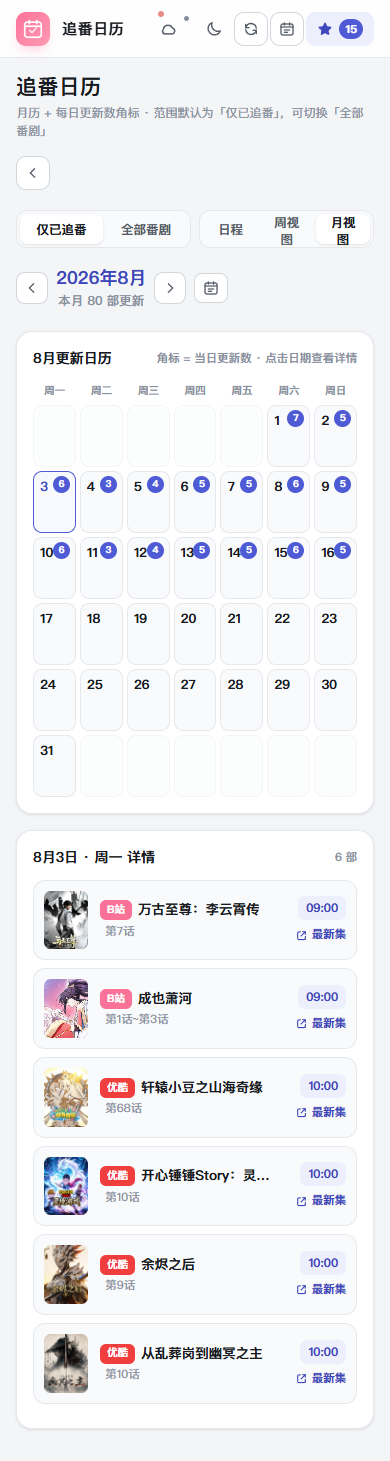
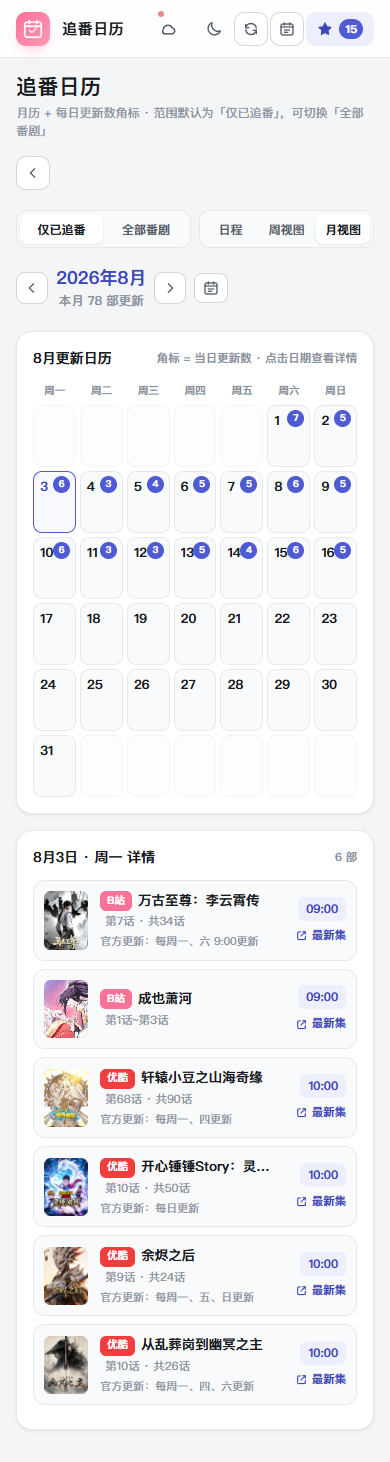
chore(verify): 数据字段防复发校验、QA截图与文档维护

diff --git a/README.md b/README.md
@@ -9,13 +9,13 @@
 - **更新看板**：左侧星期栏 + 横向卡片（今日行高亮）；四平台 Tab（含品牌 LOGO）筛选；卡片直达最新正剧集；单日超过 12 部自动折行并显示「+N 部」展开。
 - **多周浏览**：周导航支持历史 8 周（懒加载 `data/history.json` 归档）+ 本周 + 下周「预计」；历史周无数据时显示空态说明。
 - **搜索与筛选**：全站标题搜索（`/` 快捷键聚焦）+ 徽章筛选（独播/SVIP抢先/限免/超前点映/结局点映/大结局/完结）+「只看连载」，与平台 Tab、短剧过滤叠加生效。
-- **断更检测**：已追番剧按官方更新规则（rule）在规则日无更新且未完结时标记「疑似断更」，可一键忽略；展示于追番列表与日历当日。
-- **追番收藏与屏蔽**：卡片星标收藏/取消、收藏下方「屏蔽」按钮屏蔽不想看的剧（短剧过滤开启即隐藏）；同标题跨平台合并；追番列表以当前周数据富集展示（缺腾讯更新时间自动补全），卡片风格与追番日历详情一致；支持搜索（与看板同一搜索框）、平台筛选、导出/导入 JSON、逐剧「提醒」开关。
+- **断更检测**：已追番剧按更新规则（rule）在规则日无更新且未完结时标记「疑似断更」，可一键忽略；展示于追番列表与日历当日。规则来源：腾讯卡片原文 / B站官方排期文案 / 优酷与爱奇艺按星期 Tab 推导。
+- **追番收藏与屏蔽**：卡片星标收藏/取消、收藏下方「屏蔽」按钮屏蔽不想看的剧（短剧过滤开启即隐藏）；同标题跨平台合并；追番列表以当前周数据富集展示（缺腾讯更新时间自动补全），卡片风格与追番日历详情一致；封面取自收藏时持久化的海报，历史/已完结剧集由当前周数据与历史归档兜底；支持搜索（与看板同一搜索框）、平台筛选、导出/导入 JSON、逐剧「提醒」开关（标题行铃铛图标）。
 - **更新提醒**：静默浏览器通知（顶栏无铃铛）——页面打开期间自动检查，同一剧集同一天只提醒一次；通知授权后可收聚合文案。
 - **匿名云同步（可选）**：无账号体系——首次访问自动创建设备级匿名身份（Header 云图标首次出现红点提示，查看后消失），追番/屏蔽/设置自动云端同步（Supabase + RLS）；可绑定邮箱升级跨设备；不配置则纯本地运行。
 - **追番日历**：日程（当日列表 + 明日预告，详情卡含「最新集」跳转与官方更新规则）/ 周视图（本周更新 + 当日详情）/ 月视图（每行一部并带更新时间，**合并历史归档展示整月数据**）；不受短剧过滤影响（按原始数据展示）；范围默认「仅已追番」，可切换「全部番剧」；「回到今天」；下周为按本周排期推导的「预计」视图（完结剧不预测并标「完结」）。
 - **PWA/离线**：可安装（manifest + 图标）、Service Worker 预缓存，离线可打开最近一次看板数据。
-- **体验**：今日追番更新摘要（不受平台 Tab 影响）、深色模式（跟随系统/手动）、真实「刷新」（运行时拉取最新数据，失败回退构建时数据）、相对时间（N 小时前）、卡片时长显示、数据提示「知道了」持久关闭、加载骨架屏、抓取失败重试、warnings 提示、移动端响应式（<768px 降级为星期 Tab + 单日列表，操作按钮图标化，站点/星期选择栏横向滚动条提示）、SEO/分享（og/sitemap/robots/404/深链）。
+- **体验**：今日追番更新摘要（不受平台 Tab 影响）、深色模式（跟随系统/手动）、真实「刷新」（运行时拉取最新数据，失败回退构建时数据）、相对时间（N 小时前）、卡片时长显示、总集数展示（「共N集/话」）、短剧过滤统计（「已过滤 X 部」，手动屏蔽单独标注）、数据提示「知道了」持久关闭、加载骨架屏、抓取失败重试、warnings 提示、移动端响应式（<768px 降级为星期 Tab + 单日列表，操作按钮图标化，站点/星期选择栏横向滚动条提示）、SEO/分享（og/sitemap/robots/404/深链）。
 
 ## 数据来源与免责声明
 
@@ -41,12 +41,12 @@ GitHub Pages 静态前端 + GitHub Actions 定时数据管道：
 ```
 Actions（cron 0 11,23 * * * UTC + workflow_dispatch + push）
   → pnpm install --frozen-lockfile → playwright install chromium
-  → node scripts/sync.mjs（抓取四平台（爱奇艺当天 tab 不重复点击 + 遮罩清理；优酷「今」tab 锚定日期）→ 时长富集（B站季分集接口 / 腾讯 GetPageData 分集接口（每集秒级 duration，按 vid/集数精确匹配）/ 优酷 show_page+播放页，慢速+冷却重试+Playwright 浏览器兜底 / 爱奇艺 avlistinfo 分集接口）→ 短条目保留 + AI 短剧关键词/评论区启发式兜底 + 豆瓣甄别（优酷/爱奇艺缺失时长条目，限额防爬）→ SVIP 抢先去重 → 最新集解析（B站排期 ep 直达/黑名单回退最新正片、优酷直达剧集页 show_page、腾讯分集列表点击解析最新正片、爱奇艺 avlistinfo 正片直达）→ 下周预计排期（未完结条目 +7 天推导）→ 四平台「今天无条目」自检告警 → 写 data/updates.json）
+  → node scripts/sync.mjs（抓取四平台（爱奇艺当天 tab 不重复点击 + 遮罩清理；优酷「今」tab 锚定日期）→ 时长/总集数/更新规则富集（B站季分集接口 total + new_ep.desc 排期 / 腾讯 GetPageData 分集接口（每集秒级 duration，按 vid/集数精确匹配；总集数仅「全N集」文案）/ 优酷 show_page episodeTotal + 星期 Tab 排期，慢速+冷却重试+Playwright 浏览器兜底 / 爱奇艺 avlistinfo 分集接口 total + 星期 Tab 排期）→ 短条目保留 + AI 短剧关键词/评论区启发式兜底 + 豆瓣甄别（优酷/爱奇艺缺失时长条目，限额防爬）→ SVIP 抢先去重 → 最新集解析（B站排期 ep 直达/黑名单回退最新正片、优酷直达剧集页 show_page、腾讯分集列表点击解析最新正片、爱奇艺 avlistinfo 正片直达）→ 下周预计排期（未完结条目 +7 天推导）→ 四平台「今天无条目」自检告警 → 写 data/updates.json）
   → 历史归档（data/history.json，滚动保留 8 周真实条目）→ git 回写 main（[skip ci] bot 提交，供前端运行时刷新与历史导航）
   → vite build（含 PWA manifest + Service Worker）→ actions/deploy-pages 发布 dist/
 ```
 
-前端「短剧过滤」开关（默认开启、阈值默认 10 分钟、可调 1/3/5/10/15 分钟）：仅隐藏展示，数据仍保留，关闭后可见全部条目；过滤开启即隐藏用户手动屏蔽的剧集，以及优酷名称含断句标点（、，。：；）的 AI 短剧条目；追番日历（日程/周/月）不受短剧过滤影响，按原始数据展示。
+前端「短剧过滤」开关（默认开启、阈值默认 10 分钟、可调 1/3/5/10/15 分钟）：仅隐藏展示，数据仍保留，关闭后可见全部条目；过滤开启即隐藏用户手动屏蔽的剧集，以及优酷名称含断句标点（、，。：；）的 AI 短剧条目；控件显示「已过滤 X 部」（当前周真实条目中实际被隐藏的去重剧部数，手动屏蔽单独标注）；追番日历（日程/周/月）不受短剧过滤影响，按原始数据展示。
 
 前端构建时读取 `data/updates.json`（结构与 `AnimeItem` 契约一致）；「刷新」按钮运行时拉取 raw.githubusercontent 最新数据（jsDelivr 兜底），对比 `generatedAt` 后更新页面。单平台抓取失败时输出 `error` 字段并沿用上次成功数据，只有完全无法产出数据时同步才退出非零。
 
@@ -95,4 +95,4 @@ MIT。数据版权归各平台，仅供个人追番参考，请勿商用。
 - M3 高保真 QA 已通过：逐屏对照台账见 `outputs/design/qa/保真度台账-M3.md`，应用截图见 `outputs/design/qa/`（与 `outputs/design/` 原型图同屏状态可逐张比对）。
 - 自动化覆盖：桌面/移动断点矩阵（375/390/360/768）、状态栅（骨架/失败/空态/深色）、追番增删与导出导入、日历三视图与范围切换、移动滑动、键盘、触控命中区、卡片最新集跳转、真实海报加载、无控制台错误。
 - M5 迭代（迭代计划书 v1，见 `outputs/迭代计划书-v1.md`）：新增 Vitest 单测（`pnpm test`）+ 浏览器验证脚本（`work/verify-m5.mjs`：PWA/SW、搜索筛选、周导航、断更、同步状态、断点矩阵、零控制台错误）。
-- 已知取舍：平台抓取依赖对方页面结构，改版时按「失败即保留上次数据」降级并在 Actions 日志告警，且 `sync.mjs` 内置四平台「今天无条目」自检（CI 输出 warning），发布前运行 `scripts/verify/` 回归脚本（详见 `scripts/verify/README.md`，历史教训：爱奇艺「今天」/优酷「今」tab 多次回归）；「下周预计排期」为按本周排期推导的启发式预测（`predicted` 标记），以平台实际更新为准；历史归档自 M5 起逐步累积，缺失周显示空态；浏览器通知仅在网站打开时有效（无后台推送服务）。
+- 已知取舍：平台抓取依赖对方页面结构，改版时按「失败即保留上次数据」降级并在 Actions 日志告警，且 `sync.mjs` 内置四平台「今天无条目」自检（CI 输出 warning），发布前运行 `scripts/verify/` 回归脚本（详见 `scripts/verify/README.md`，历史教训：爱奇艺「今天」/优酷「今」tab 多次回归）；「下周预计排期」为按本周排期推导的启发式预测（`predicted` 标记），以平台实际更新为准；历史归档自 M5 起逐步累积，缺失周显示空态；浏览器通知仅在网站打开时有效（无后台推送服务）；总集数：B站/优酷/爱奇艺可取平台计划总集数，腾讯仅已完结剧（「全N集」文案）展示，连载中剧集平台未公开计划总集数；优酷/爱奇艺更新规则为星期排期推导（无具体时间），腾讯/B站为平台原文。

diff --git a/AGENTS.md b/AGENTS.md
@@ -11,14 +11,16 @@
 - `CONTENT_BLOCKLIST`（小课堂/发布会/预告/片花/花絮/幕后/访谈/见面会/先导/抢先看）**只影响最新集解析**，不参与周表过滤；周表按平台原始更新数据展示。
 - 追番日历与「今日追番更新」默认**仅已追番**，可切换全部番剧。
 - 下周排期预测：同步在清洗/豆瓣过滤后，对本周**未完结**条目按同星期同时段 +7 天生成「预计」排期（`predicted: true`，前端标「预计」）；已完结（大结局/结局点映/全X集/X集全）条目标记 `finished: true` 且不预测；预测条目不参与时长/豆瓣过滤，看板计数仅统计本周真实数据。
-- 短剧过滤（前端开关）：同步**保留**全部已知时长条目（含 <300s 短条目）；前端「短剧过滤」默认开启、阈值默认 600s（10 分钟）可调（1/3/5/10/15 分钟，localStorage 键 `anime-calendar.shortfilter.v1`），关闭时展示全部；**过滤开关开启即隐藏**用户手动屏蔽的剧集（localStorage 键 `anime-calendar.blocked.v1`，卡片收藏按钮下方「屏蔽」按钮维护）与优酷名称含断句标点（、，。：；，不匹配 ？！以免误伤「是王者啊？第六季」等正剧）的条目；**追番日历（日程/周/月）不受短剧过滤影响**，按原始数据展示。
+- 短剧过滤（前端开关）：同步**保留**全部已知时长条目（含 <300s 短条目）；前端「短剧过滤」默认开启、阈值默认 600s（10 分钟）可调（1/3/5/10/15 分钟，localStorage 键 `anime-calendar.shortfilter.v1`），关闭时展示全部；**过滤开关开启即隐藏**用户手动屏蔽的剧集（localStorage 键 `anime-calendar.blocked.v1`，卡片收藏按钮下方「屏蔽」按钮维护）与优酷名称含断句标点（、，。：；，不匹配 ？！以免误伤「是王者啊？第六季」等正剧）的条目；控件统计文案「已过滤 X 部」= 当前周真实条目（排除 predicted）中被过滤隐藏的去重剧部数（时长不足 + 手动屏蔽 + 优酷标点，与 `applyShortFilter` 判定一致），其中手动屏蔽单独标注；**追番日历（日程/周/月）不受短剧过滤影响**，按原始数据展示。
+- 更新规则（`rule` 字段）：腾讯卡片底部原文；B站取季接口 `new_ep.desc`（如「连载中, 每周一、六 9:00更新」，去掉「连载中,」前缀）；优酷/爱奇艺按星期 Tab 排期推导「每周X更新」/「每日更新」（仅未完结剧，已完结不生成）。
 - 腾讯更新时间：卡片底部规则文案按「星期匹配」解析——SVIP 抢先日取 SVIP 时间（如周一 18:00），VIP 常规日取 VIP 时间（如周二 10:00），避免用错档期。
+- 总集数（`total` 字段）：B站 season API `total`（缺省回退已更新集数）、优酷 show_page `episodeTotal`、爱奇艺 avlistinfo `data.total`；腾讯仅「全N集」文案（连载中剧集平台未公开计划总集数，不做推断）。前端 `formatTotal` 按平台单位展示「共N集/话」。
 - 优酷直达链接：卡片 URL 一律用 `show_page/id_{showId}.html`（浏览器会落到该动漫播放页）；`previewInfo.videoId` 是预览短片（片花/预告）**不可**作为直达链接。
 - 时长富集：B站季分集接口 `api.bilibili.com/pgc/view/web/season?season_id=`（毫秒，按 episode_id 匹配、正片最新集兜底）；腾讯分集接口 `pbaccess.video.qq.com/.../GetPageData`（`vsite_episode_list`，每集秒级 duration，按集数匹配、非花絮最新集兜底）；优酷 show_page 内联时长（秒/ISO 8601）优先 + 播放页 `pageMap.extra.duration` 兜底，连续请求触发 `_____tmd_____/punish` 反爬时按「慢速 1.2s + 挑战页冷却重试 + 挑战页带出真实 videoId 转播放页 + Playwright 浏览器兜底」降级；爱奇艺专辑分集接口 `pcw-api.iqiyi.com/albums/album/avlistinfo?aid=`（按集数匹配、最新集兜底）。
 - 内容类型排除：标题含「动态漫/AI动漫/泡面番」（AI 生成短剧）的条目在同步时直接丢弃并记入 `warnings`（与时长无关）；爱奇艺另以评论区「AI 关键字 + 负面情绪」启发式过滤（限流时优雅降级）；优酷/爱奇艺「时长缺失或 <1 分钟」条目追加豆瓣影视搜索甄别——精确命中且「暂无评分」丢弃（白名单保护正剧，如苏东坡与杭州的故事），未命中/查询失败保留，每次同步查询上限 10 次、间隔 2s（反爬约束，`scripts/douban.mjs`）；用户经评论区等渠道确认的 AI 短剧（如云月大陆）进人工黑名单无条件排除。
 - 腾讯更新规则：卡片下方「每周X…」规则文案入库为 `rule` 字段；SVIP 抢先去重仅限卡片文案含 SVIP 的相邻同日集重复。
 - 追番日历（日程/周/月）**不受短剧过滤影响**，按原始数据展示；月视图合并历史归档（`history.json`）实现整月数据。
-- 追番列表展示以**当前周数据富集**为准（`platformInfoFor`）：历史收藏缺腾讯更新时间/链接过期时自动补全；搜索与看板共用同一 `SearchBox`（规范化标题匹配）。
+- 追番列表展示以**当前周数据富集**为准（`platformInfoFor`）：历史收藏缺腾讯更新时间/链接过期时自动补全；搜索与看板共用同一 `SearchBox`（规范化标题匹配）；封面取 `FollowItem.poster`（收藏时持久化）→ 当前周数据 → 历史归档（懒加载 history.json）兜底，保证已完结/历史剧集仍有封面。
 - 更新提醒为**静默浏览器通知**（顶栏铃铛已移除）：页面打开期间加载/切前台/每 30 分钟检查，同一剧集同一天只提醒一次。
 - 本地存储键：追番 `anime-calendar.follows.v1`；屏蔽 `anime-calendar.blocked.v1`；主题 `anime-calendar.theme.v1`；短剧过滤 `anime-calendar.shortfilter.v1`（默认开、600s）；断更忽略 `anime-calendar.ignore-missed.v1`；通知去重 `anime-calendar.notified.v1`；云同步会话 `anime-calendar.session.v1`、同步队列 `anime-calendar.sync.pending.v1`、云同步红点已读 `anime-calendar.sync-seen.v1`；数据提示已关闭 `anime-calendar.warn-dismissed.v1`。
 

diff --git a/scripts/verify/README.md b/scripts/verify/README.md
@@ -7,6 +7,7 @@
 | `node scripts/verify/youku-today.mjs` | 优酷「今」tab 锚定今天、7 天 tab 日期连续不错位 | 秒级 |
 | `node scripts/verify/iqiyi-today.mjs` | 爱奇艺「今天」tab（激活日不重复点击）当天有数据 | 约 6 分钟 |
 | `node scripts/verify/tencent-duration.mjs` | 腾讯 GetPageData 时长匹配（季号不误当集数、斩神/茶啊二中 >300s） | 约 6 分钟 |
+| `node scripts/verify/data-fields.mjs` | 同步后 total（总集数）与 rule（更新规则）覆盖度 + 非法值检查（CI 同款，不足时 `::warning::` 不阻断） | 秒级 |
 
 历史教训：爱奇艺「今天」tab 与优酷「今」tab 曾多次回归（重复点击激活 tab 导致卡片清空、date 字段缺失回退周一索引导致错位）。任何抓取器改动都不得破坏以下约定：
 
@@ -14,3 +15,5 @@
 2. 日期映射优先平台内联 date/week 字段；缺失时以「今/今天」tab 为锚推算，禁止直接假定 tabs[0]=周一；
 3. 腾讯集数解析必须匹配「第N集/话」（带后缀），禁止把「第2季」当集数；
 4. 时长匹配优先正片 vid 精确命中，其次按集数，禁止直接取列表末项（可能为预告/花絮）。
+5. 总集数：B站 season API `total`、优酷 `episodeTotal`、爱奇艺 avlistinfo `total`；腾讯仅「全N集」文案，禁止对连载中剧集推断（避免把「已更新N集」误作总集数）。
+6. 更新规则：腾讯卡片原文、B站 `new_ep.desc`、优酷/爱奇艺按星期 Tab 推导（仅未完结剧），禁止给已完结剧生成周更规则。
